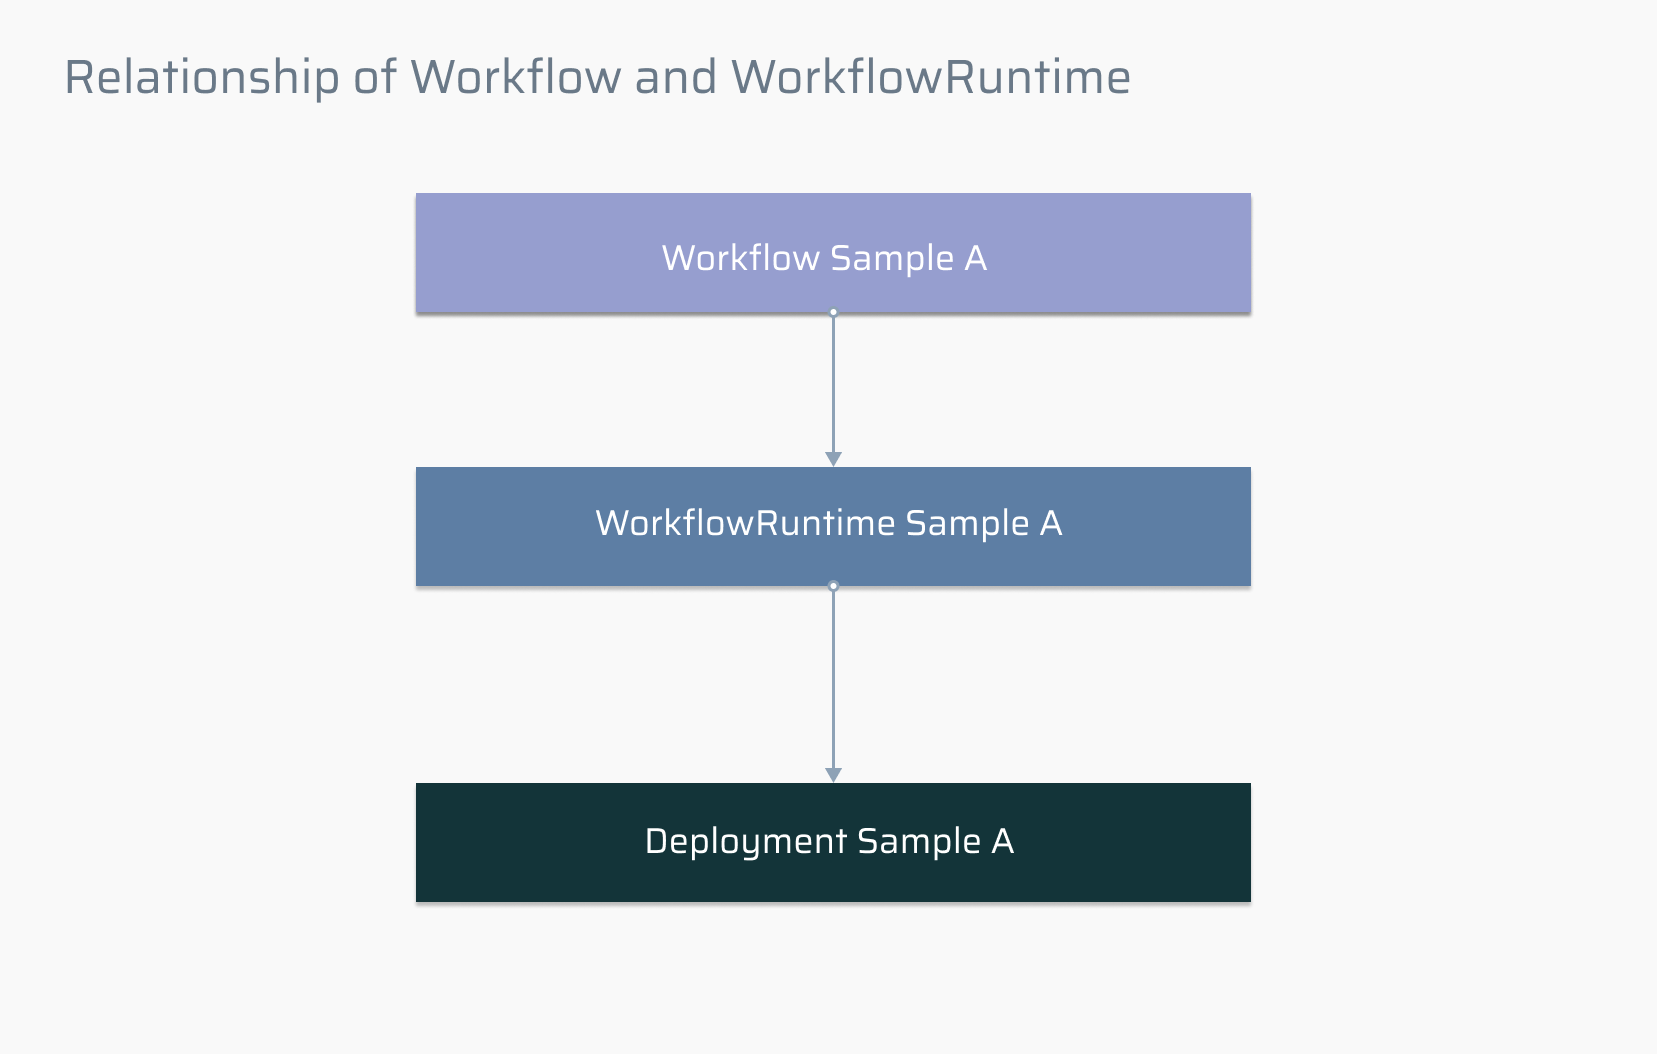
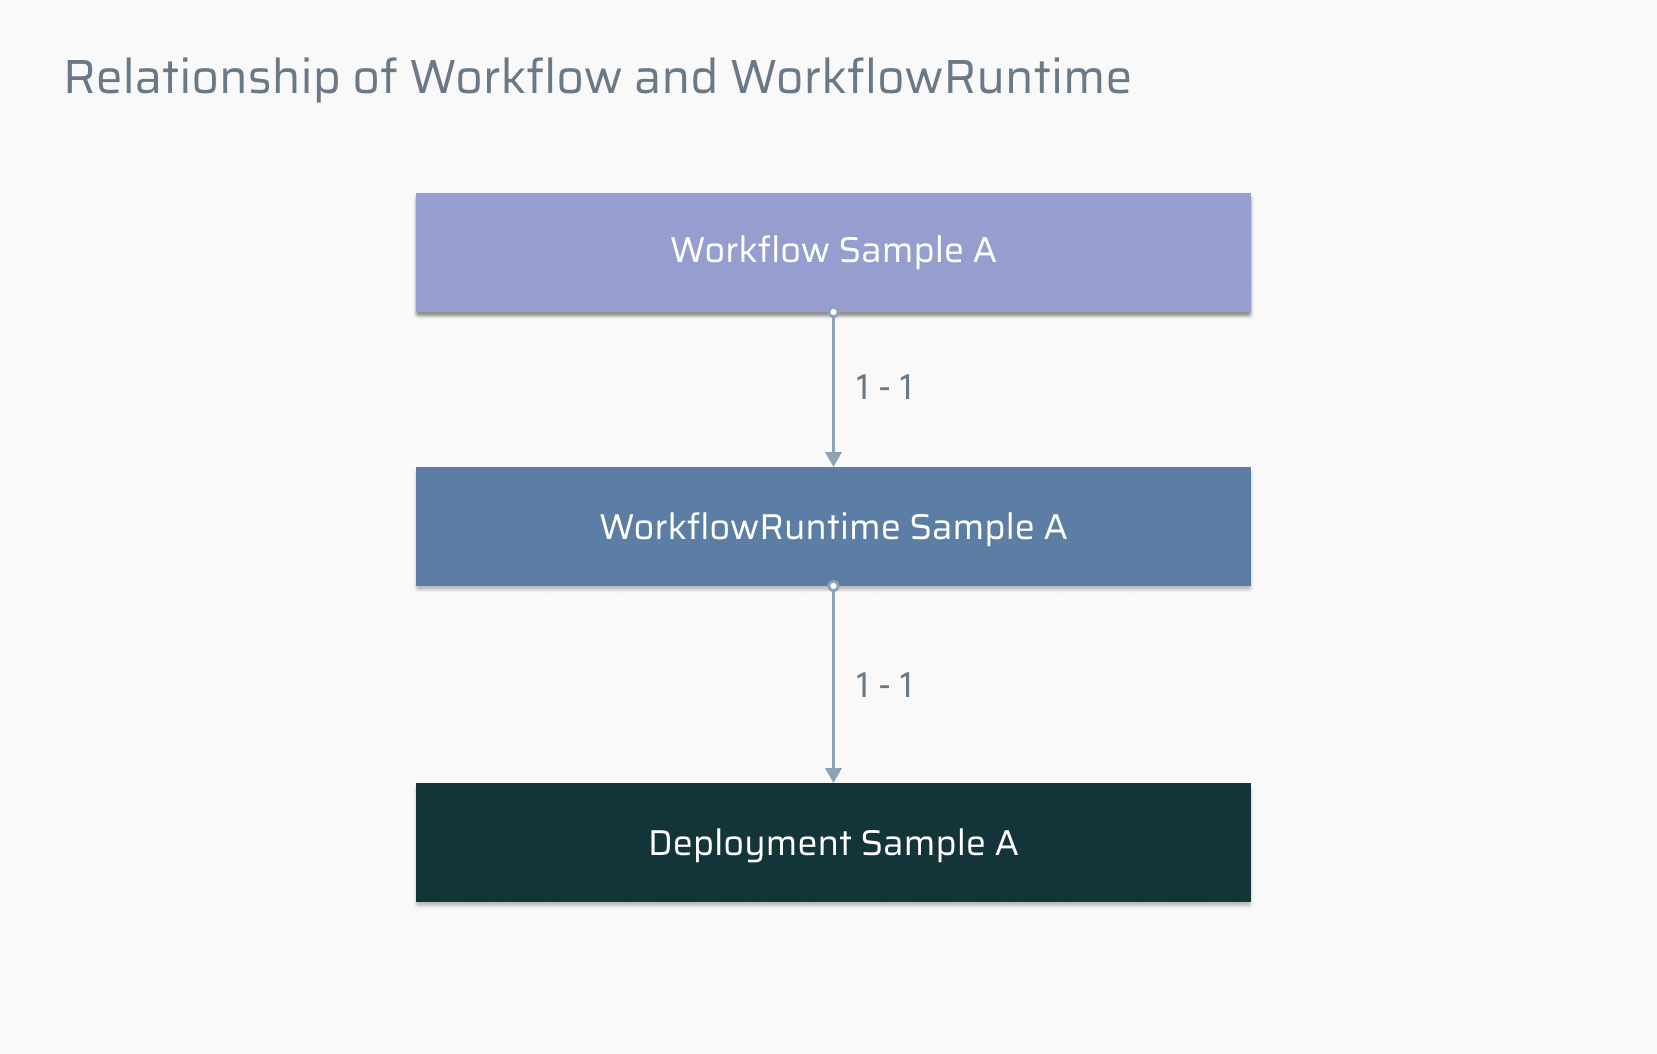
doc: Update operator design

Changed region(s): [[0.4001, 0.2125, 0.6156, 0.2732], [0.3386, 0.4858, 0.6463, 0.5161], [0.3693, 0.7894, 0.6156, 0.8197]]

diff --git a/designs/operator.md b/designs/operator.md
@@ -8,6 +8,8 @@
 
 ## Core Concepts
 
+### Main CRD
+
 在 Kubernetes 集群中，主要有三种类型的 CRD 会通过 Tass Operator 进行管理：
 
 * `Function` CRD：Function 用来定义 Tass 中最小的执行单位，在 Tass 中，每个用户可以定义多个 Function，这些 Function 就是一段代码片段，Tass 会在一些合适的时间点执行这些代码。多个不同的 Function 可以组成一个 Workflow；
@@ -32,6 +34,48 @@
 2. 当一个 Workflow Resource 被创建的时候，会对应创建一个 WorkflowRuntime Resource；
 3. 当一个 WorkflowRuntime Resource 创建的时候，会对应创建一个 Deployment Resource；
 4. WorkflowRuntime Resource 记录着该 Workflow 运行时的各种资源信息，比如每个 Pod 的状态，Function 的状态等。
+
+### Sample
+
+下面将介绍当创建一个类型为 `Workflow` 的资源时集群发生的变化。
+
+首先，假设创建的资源配置文件如下：
+
+```yaml
+apiVersion: serverless.tass.io/v1alpha1
+kind: Workflow
+metadata:
+  name: workflow-sample
+spec:
+  spec: # todo：补一个具体的 function
+```
+
+目前，tass 使用 Kubernetes Namespace 区别用户，因此，上述文件的用户为 default。该文件表明，当前定义的 `Workflow` 的名字为 `workflow-sample`，其关系可以用下图表示：
+
+> Todo：补一个图
+
+当用户在集群中创建这个资源后，Tass Operator 会**按序**创建相关资源 WorkflowRuntime 和 Deployment，如下图：
+
+<img src="img/creation-process.png" alt="creation-process" style="zoom:33%;" />
+
+Workflow，WorkflowRuntime 和 Deployment 创建的资源具有相同的名字和 namespace，只是他们各自扮演的角色并不相同：
+
+* Workflow 可以理解为一份配置文件，是 Workflow resource 的 metadata，记录着 Function 构成的图；
+* WorkflowRuntime 是 Workflow 资源的运行时，在 Workflow Resource 创建完成后创建，它负责记录两件事：
+  * 真正要部署的 Deployment 副本数量和资源限制，如运行 2 个 Pod，每个 Pod 资源占用 1 个 CPU 2GB 的内存；
+  * 真正在集群中运行的 Pod 的各类信息，如 Pod 的创建时间，Pod 的 IP，Pod 中运行的 Function 的信息；
+* Deployment 用来真正进行资源部署，在 WorkflowRuntime Resource 创建完成后创建，它根据 WorkflowRuntime 的信息动态的调整 Pod 的数量；
+* Tass 具有资源池的概念，每个 Workflow 创建的时候都会预启动对应的资源池，这保证了更低的冷启动。
+
+对于每一个运行的 Pod，其内部有一个 Local Scheduler 的进程负责启动 Function Process 和上报资源信息，假设一个 `workflow-sample` 相关的 HTTP 请求发往 Tass，这条请求会通过 Tass 转发到一个具体的 Pod 下，Pod 下的 Local Scheduler  就会启动 Workflow 下的相关 Function 的进程，并将状态上报给对应的 WorkflowRuntime Resource，此时集群可能的状态如下图：
+
+<img src="img/Status.png" alt="Status" style="zoom:33%;" />
+
+
+
+
+
+
 
 ## CRD Types
 
